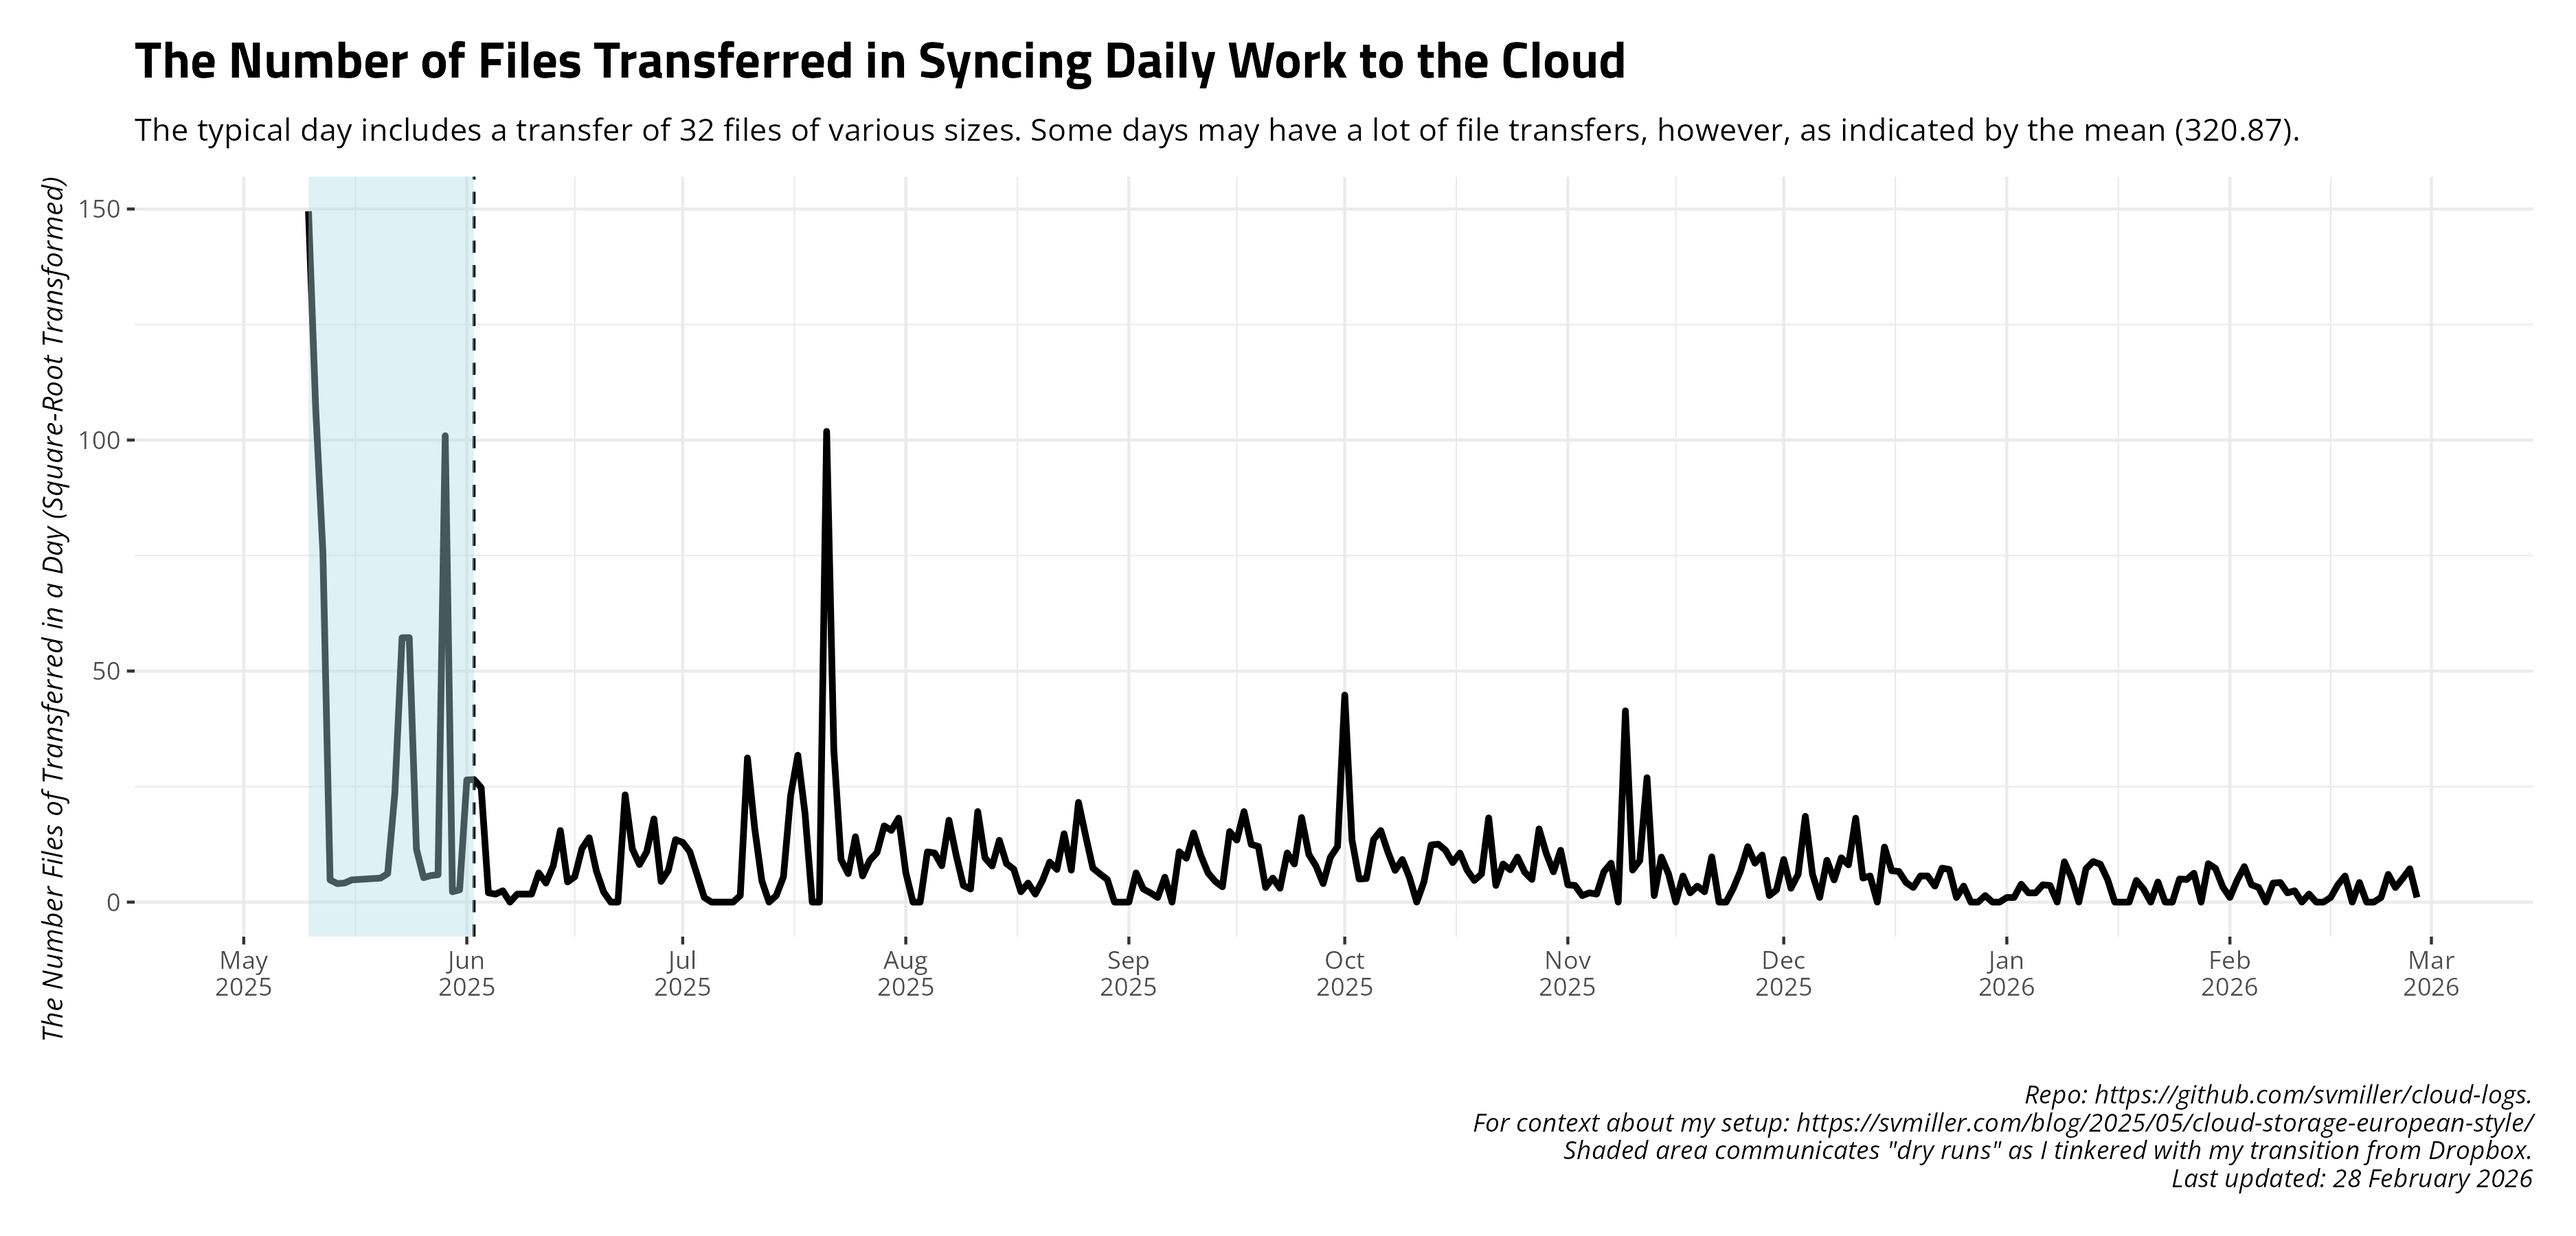
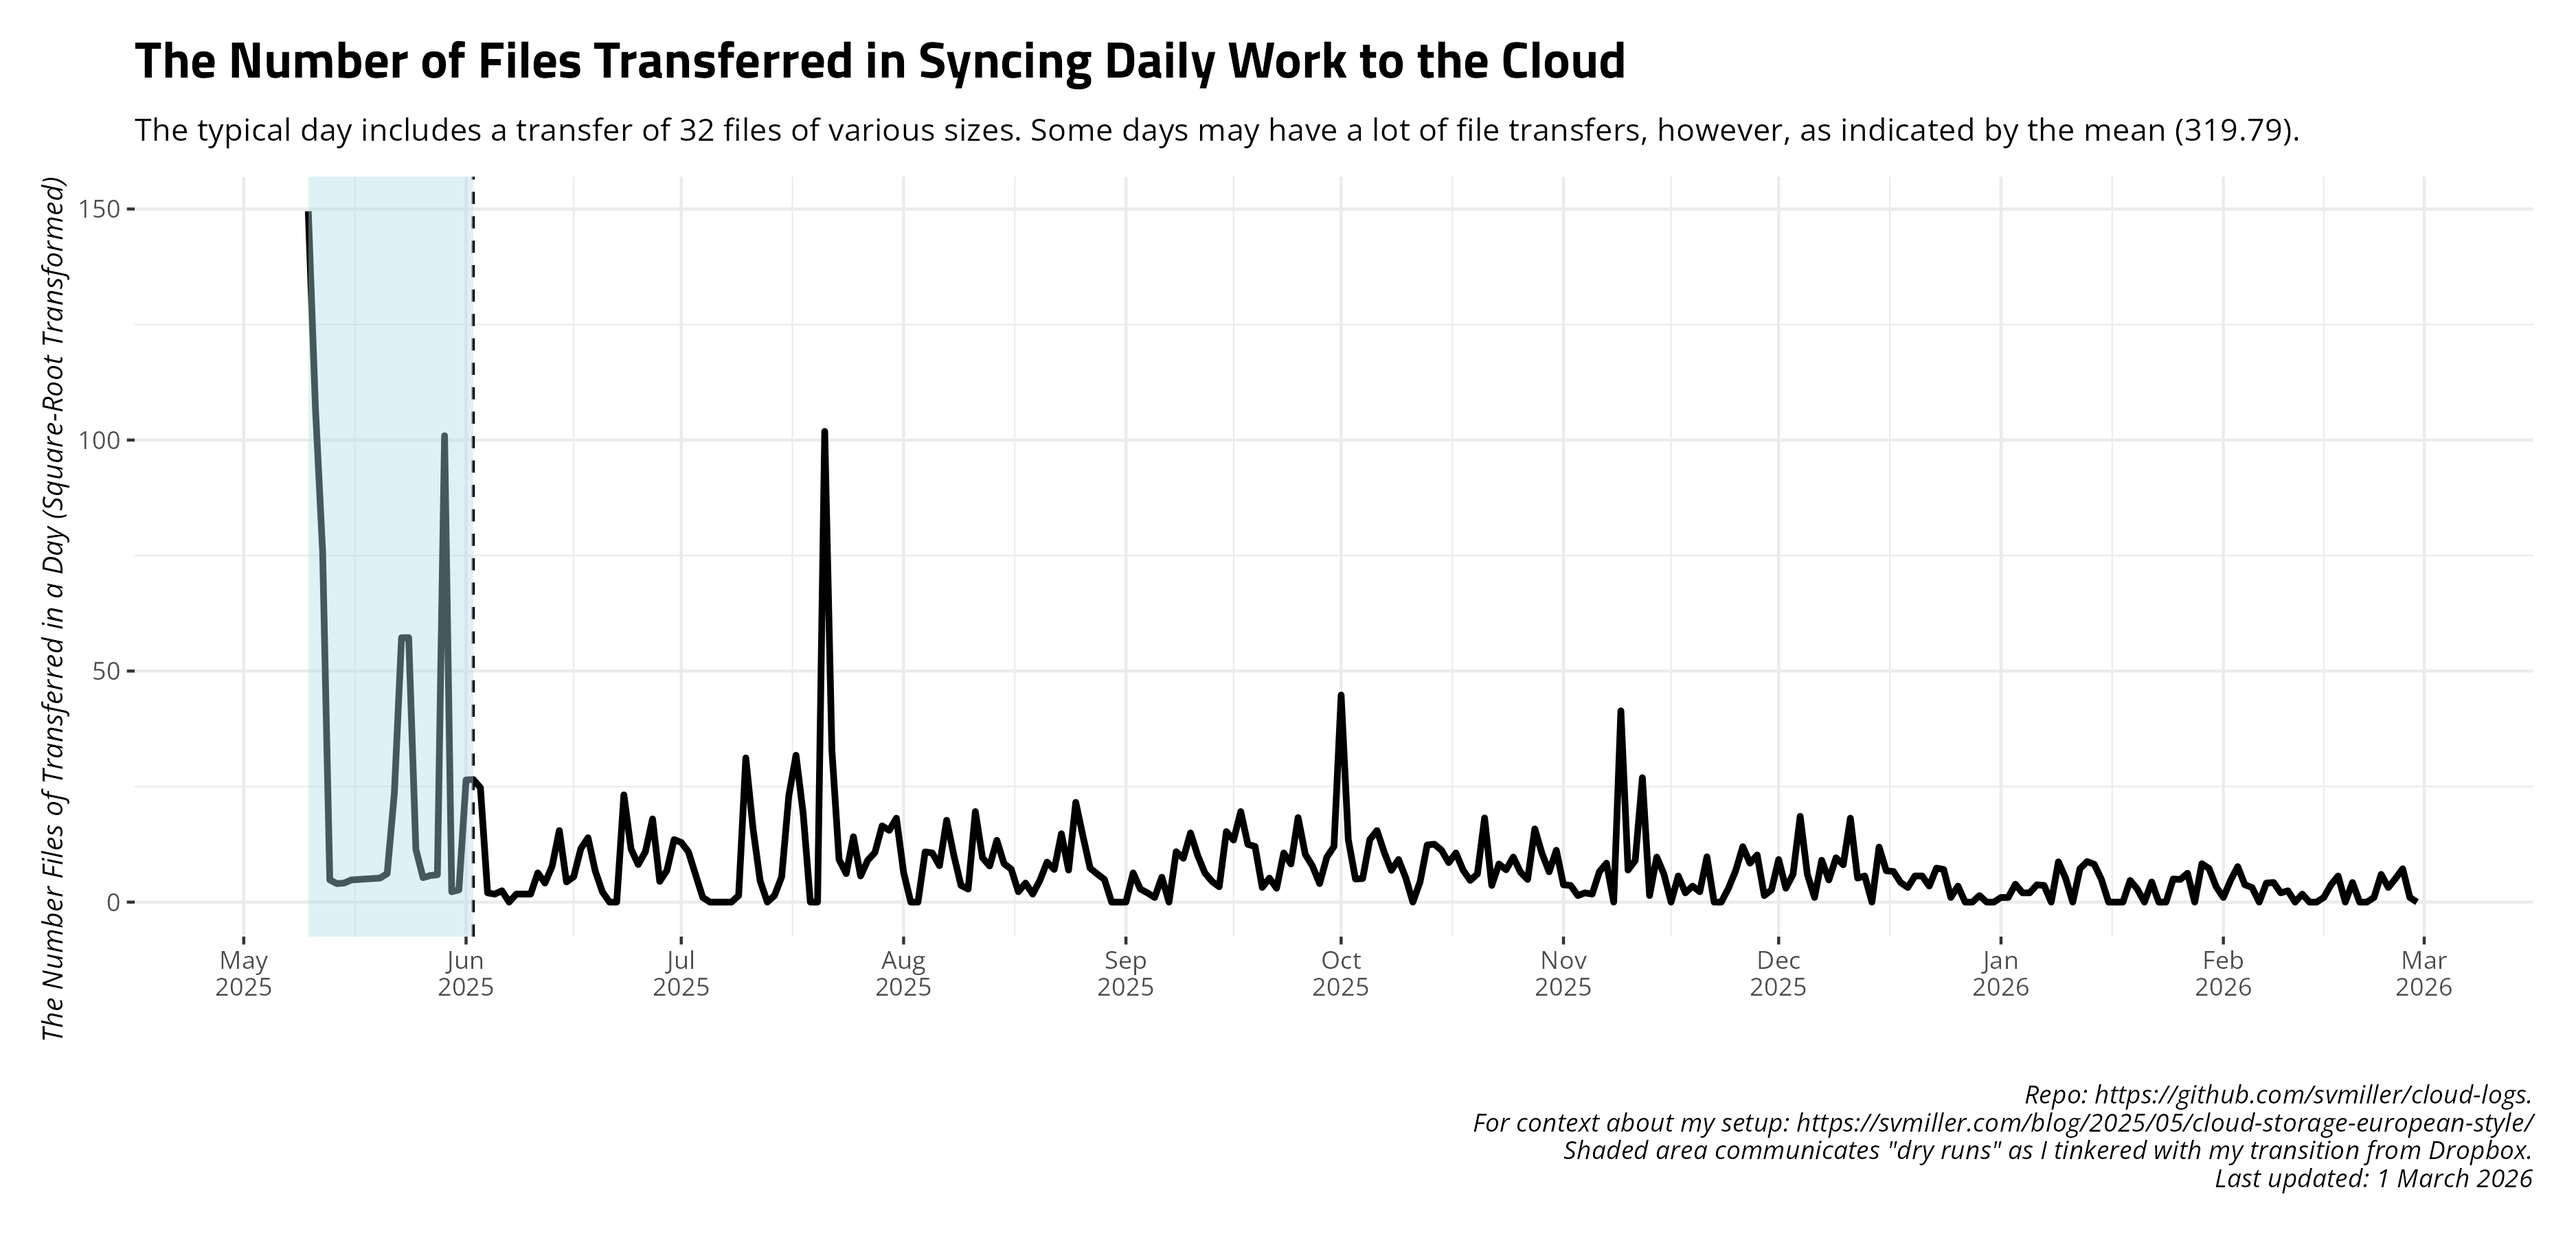
Date: 2026-03-01 09:00:24. Hi mom!

diff --git a/README.md b/README.md
@@ -27,17 +27,17 @@ and uploads to Github.
     #> # A tibble: 14 × 4
     #>    date       ftransfer stransfer   elapsed 
     #>    <date>         <dbl> <chr>       <chr>   
-    #>  1 2026-02-14         0 <NA>        4m11.9s 
-    #>  2 2026-02-15         1 56.647 KiB  4m47.6s 
-    #>  3 2026-02-16        14 149.346 KiB 15m46.2s
-    #>  4 2026-02-17        32 7.148 MiB   4m6.9s  
-    #>  5 2026-02-18         0 <NA>        4m56.9s 
-    #>  6 2026-02-19        18 68.442 KiB  4m24.1s 
-    #>  7 2026-02-20         0 <NA>        4m32.5s 
-    #>  8 2026-02-21         0 <NA>        4m21.1s 
-    #>  9 2026-02-22         1 5.451 KiB   4m31.2s 
-    #> 10 2026-02-23        36 36.310 MiB  4m27.7s 
-    #> 11 2026-02-24        10 102.766 KiB 5m52.5s 
-    #> 12 2026-02-25        26 597.885 KiB 6m31.5s 
-    #> 13 2026-02-26        52 1.423 MiB   6m32.0s 
-    #> 14 2026-02-27         1 57.085 KiB  6m56.7s
+    #>  1 2026-02-15         1 56.647 KiB  4m47.6s 
+    #>  2 2026-02-16        14 149.346 KiB 15m46.2s
+    #>  3 2026-02-17        32 7.148 MiB   4m6.9s  
+    #>  4 2026-02-18         0 <NA>        4m56.9s 
+    #>  5 2026-02-19        18 68.442 KiB  4m24.1s 
+    #>  6 2026-02-20         0 <NA>        4m32.5s 
+    #>  7 2026-02-21         0 <NA>        4m21.1s 
+    #>  8 2026-02-22         1 5.451 KiB   4m31.2s 
+    #>  9 2026-02-23        36 36.310 MiB  4m27.7s 
+    #> 10 2026-02-24        10 102.766 KiB 5m52.5s 
+    #> 11 2026-02-25        26 597.885 KiB 6m31.5s 
+    #> 12 2026-02-26        52 1.423 MiB   6m32.0s 
+    #> 13 2026-02-27         1 57.085 KiB  6m56.7s 
+    #> 14 2026-02-28         0 <NA>        5m11.6s
